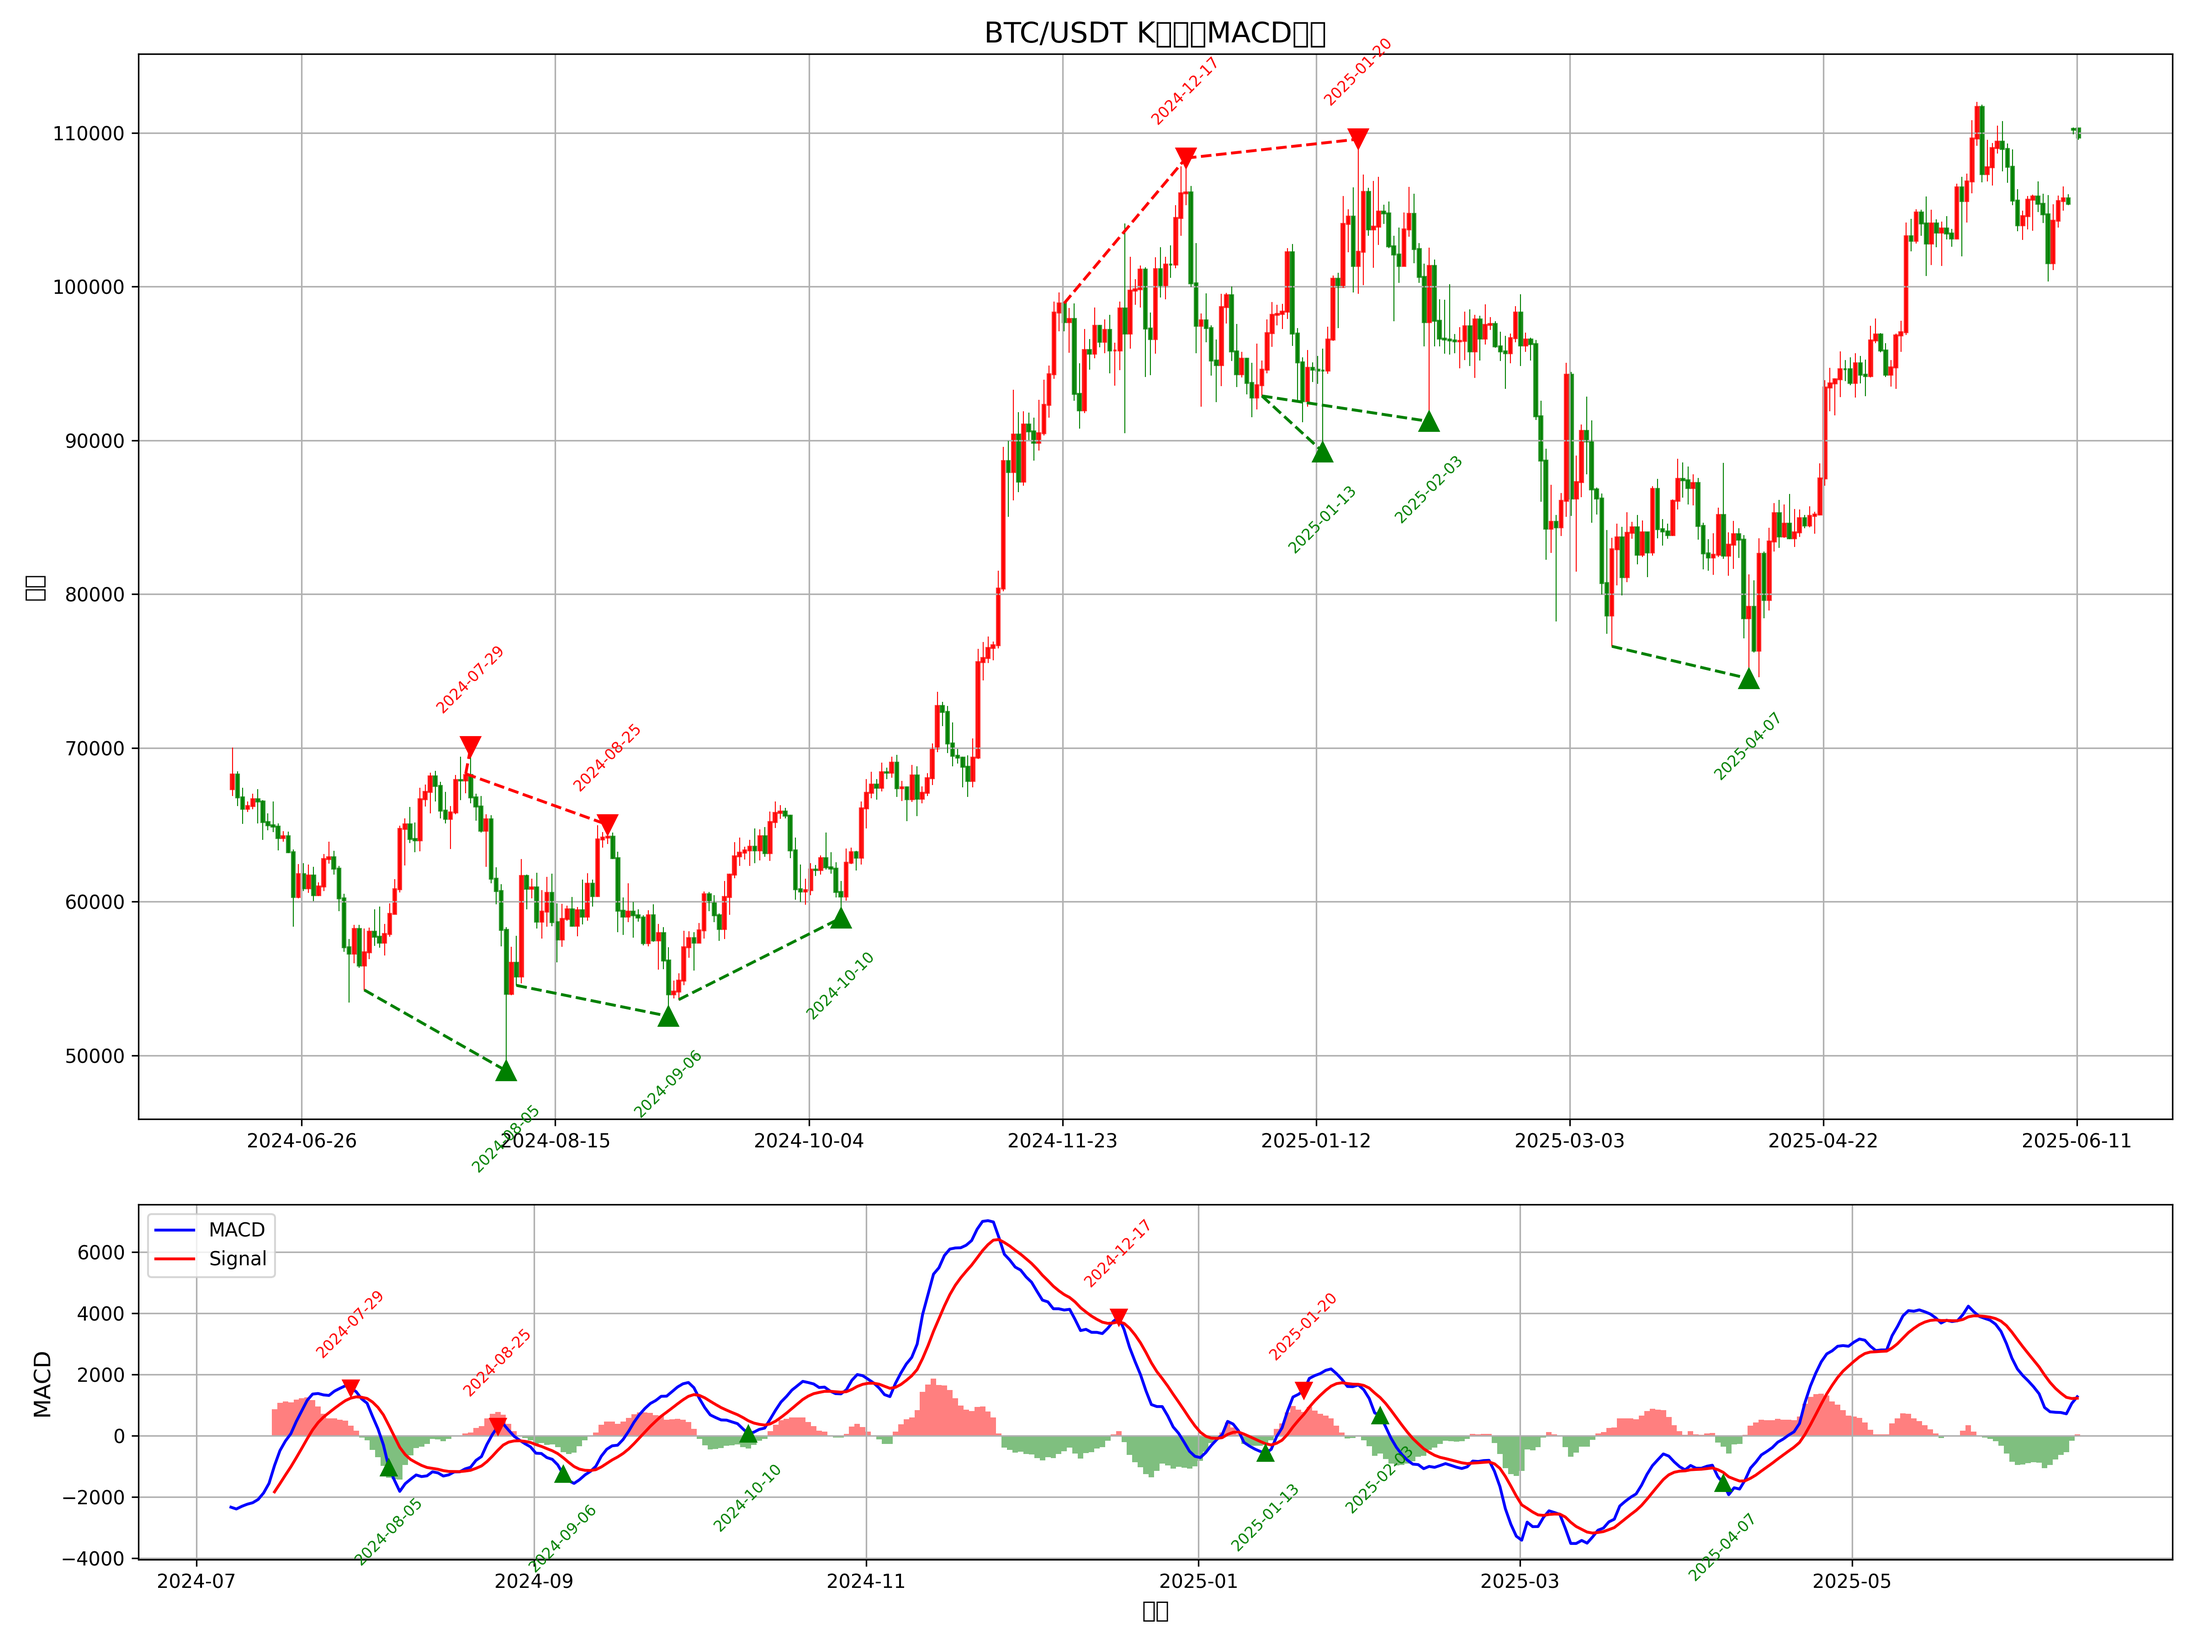
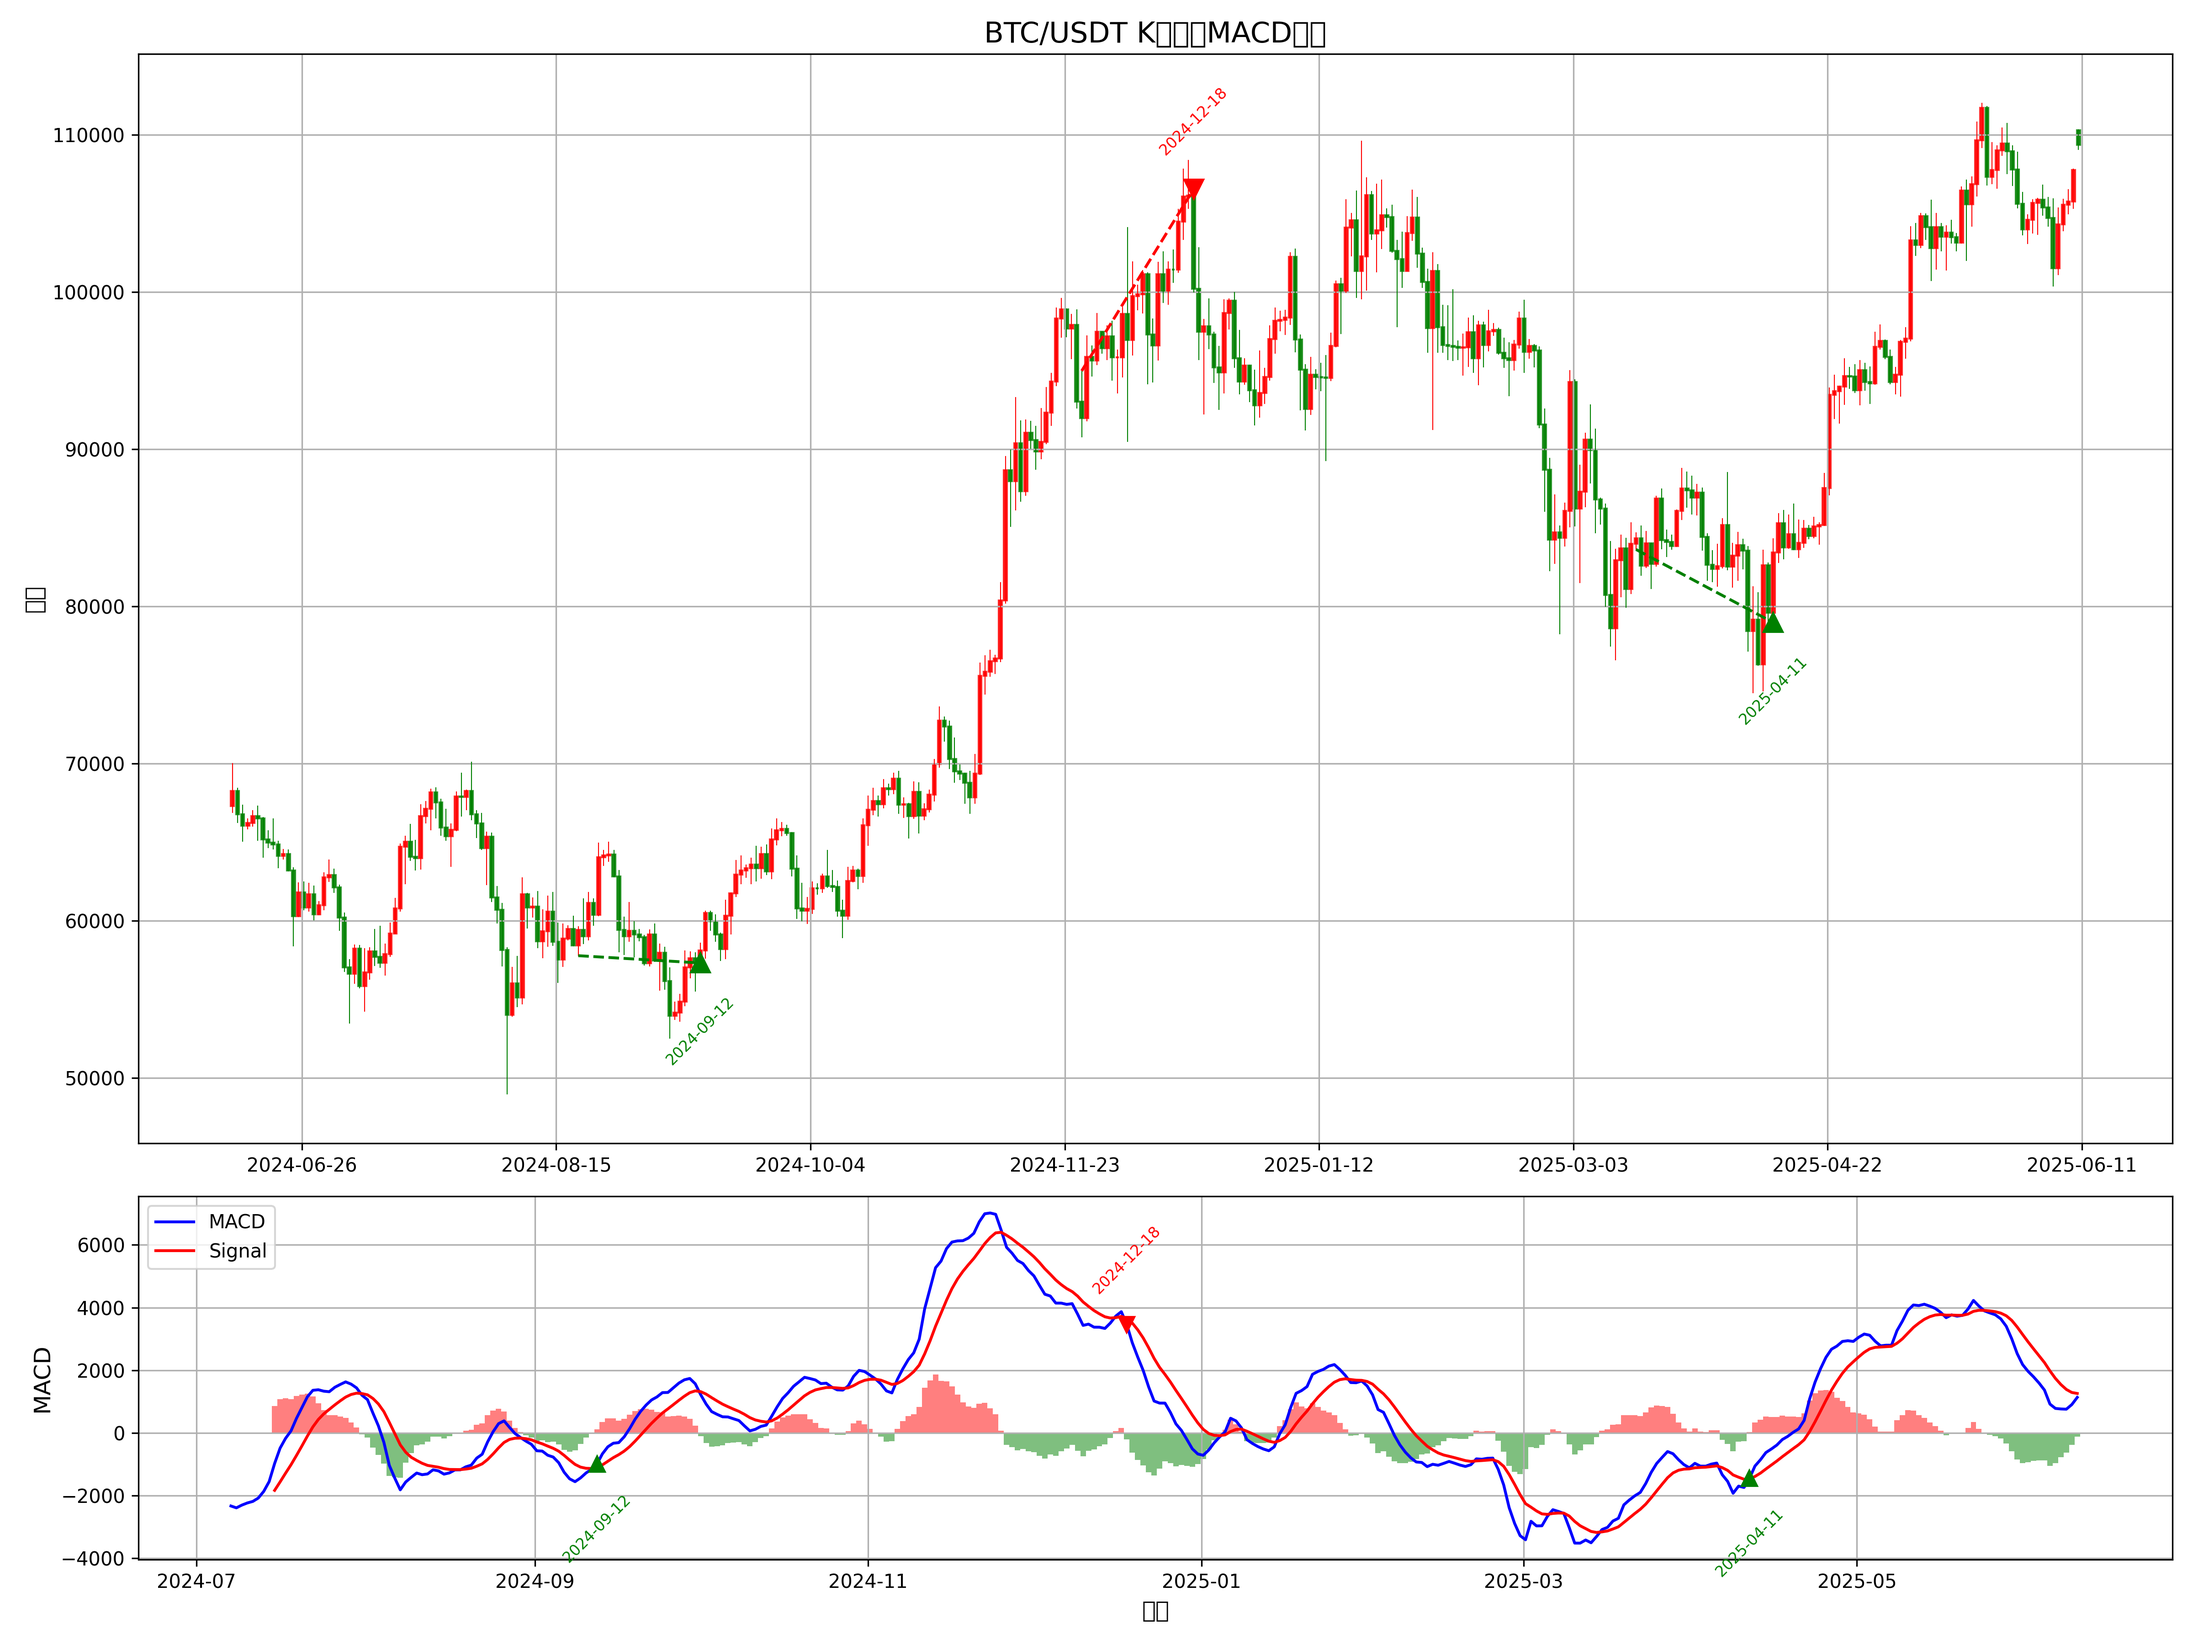
222222

diff --git a/btc_macd_divergence.py b/btc_macd_divergence.py
@@ -42,54 +42,43 @@ def calculate_macd(df):
     
     return df
 
-# 检测MACD顶底背离
-def detect_divergence(df, window_size=20):
-    # 添加新列以标记顶部和底部背离
+# 检测MACD顶底背离（以金叉/死叉为主线）
+def detect_divergence(df):
+    # 标记金叉和死叉
+    df['golden_cross'] = (df['macd'].shift(1) < df['signal'].shift(1)) & (df['macd'] > df['signal'])
+    df['death_cross'] = (df['macd'].shift(1) > df['signal'].shift(1)) & (df['macd'] < df['signal'])
+
     df['top_divergence'] = False
     df['bottom_divergence'] = False
-    
-    # 用于存储背离点的索引和数据
-    top_divergence_info = []  # 存储元组 (索引, 前一个背离点索引)
-    bottom_divergence_info = []  # 存储元组 (索引, 前一个背离点索引)
-    
-    # 检测价格和MACD的局部最大/最小值
-    for i in range(window_size, len(df) - window_size):
-        # 提取窗口数据
-        window = df.iloc[i-window_size:i+window_size+1]
-        middle_idx = window_size
-        
-        # 检测价格局部最高点
-        if window['high'].iloc[middle_idx] == window['high'].max():
-            # 向前查找MACD局部最高点
-            prev_window = df.iloc[max(0, i-window_size*2):i+1]
-            if len(prev_window) > 10:  # 确保有足够的数据点
-                # 如果当前MACD低于前一个高点，则可能是顶背离
-                if prev_window['macd'].iloc[-1] < prev_window['macd'].max() and \
-                   prev_window['macd'].idxmax() != prev_window.index[-1]:
-                    df.loc[window.index[middle_idx], 'top_divergence'] = True
-                    
-                    # 查找前一个顶背离点
-                    prev_idx = prev_window['macd'].idxmax()
-                    prev_point = df.index.get_loc(prev_idx)
-                    
-                    top_divergence_info.append((i, prev_point))
-        
-        # 检测价格局部最低点
-        if window['low'].iloc[middle_idx] == window['low'].min():
-            # 向前查找MACD局部最低点
-            prev_window = df.iloc[max(0, i-window_size*2):i+1]
-            if len(prev_window) > 10:  # 确保有足够的数据点
-                # 如果当前MACD高于前一个低点，则可能是底背离
-                if prev_window['macd'].iloc[-1] > prev_window['macd'].min() and \
-                   prev_window['macd'].idxmin() != prev_window.index[-1]:
-                    df.loc[window.index[middle_idx], 'bottom_divergence'] = True
-                    
-                    # 查找前一个底背离点
-                    prev_idx = prev_window['macd'].idxmin()
-                    prev_point = df.index.get_loc(prev_idx)
-                    
-                    bottom_divergence_info.append((i, prev_point))
-    
+    top_divergence_info = []
+    bottom_divergence_info = []
+
+    # 找出所有金叉和死叉的索引
+    golden_cross_idx = df.index[df['golden_cross']].tolist()
+    death_cross_idx = df.index[df['death_cross']].tolist()
+
+    # 检查底背离（金叉）
+    for i in range(1, len(golden_cross_idx)):
+        prev_idx = golden_cross_idx[i-1]
+        curr_idx = golden_cross_idx[i]
+        prev_pos = df.index.get_loc(prev_idx)
+        curr_pos = df.index.get_loc(curr_idx)
+        # 当前价格创新低，MACD未创新低
+        if df['low'].iloc[curr_pos] < df['low'].iloc[prev_pos] and df['macd'].iloc[curr_pos] > df['macd'].iloc[prev_pos]:
+            df.loc[curr_idx, 'bottom_divergence'] = True
+            bottom_divergence_info.append((curr_pos, prev_pos))
+
+    # 检查顶背离（死叉）
+    for i in range(1, len(death_cross_idx)):
+        prev_idx = death_cross_idx[i-1]
+        curr_idx = death_cross_idx[i]
+        prev_pos = df.index.get_loc(prev_idx)
+        curr_pos = df.index.get_loc(curr_idx)
+        # 当前价格创新高，MACD未创新高
+        if df['high'].iloc[curr_pos] > df['high'].iloc[prev_pos] and df['macd'].iloc[curr_pos] < df['macd'].iloc[prev_pos]:
+            df.loc[curr_idx, 'top_divergence'] = True
+            top_divergence_info.append((curr_pos, prev_pos))
+
     return df, top_divergence_info, bottom_divergence_info
 
 # 绘制K线图和MACD指标，标注顶底背离
@@ -248,7 +237,7 @@ if __name__ == "__main__":
     df = calculate_macd(df)
     
     # 检测背离
-    df, top_divergence_info, bottom_divergence_info = detect_divergence(df, window_size)
+    df, top_divergence_info, bottom_divergence_info = detect_divergence(df)
     
     # 绘制图表
     plot_chart_with_divergence(df, top_divergence_info, bottom_divergence_info)
